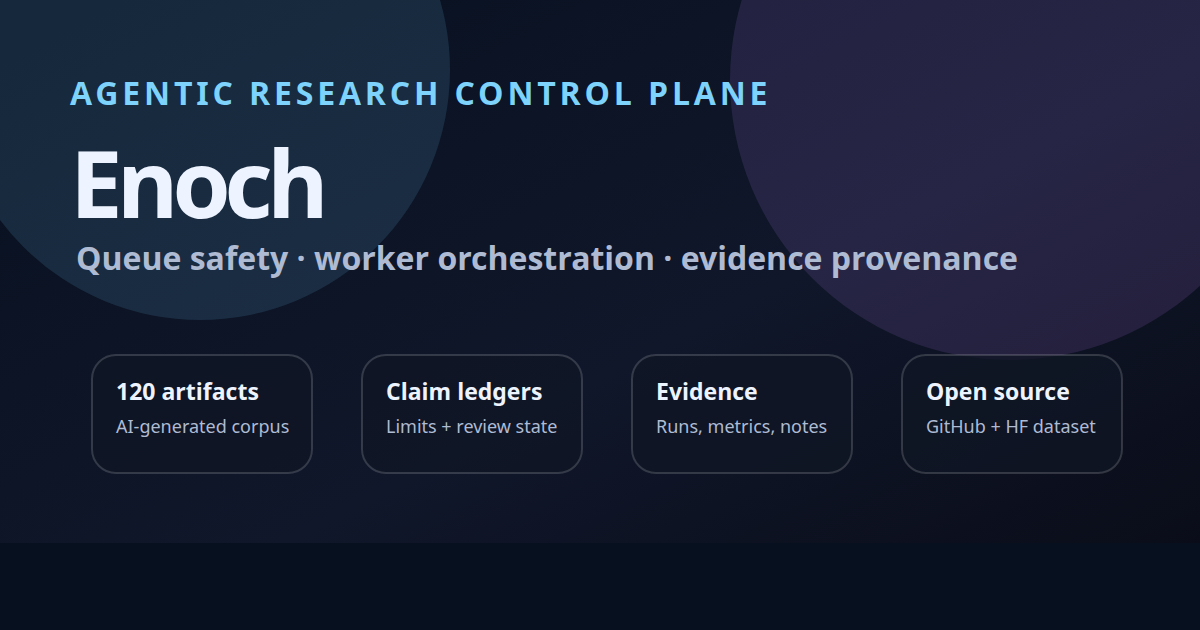
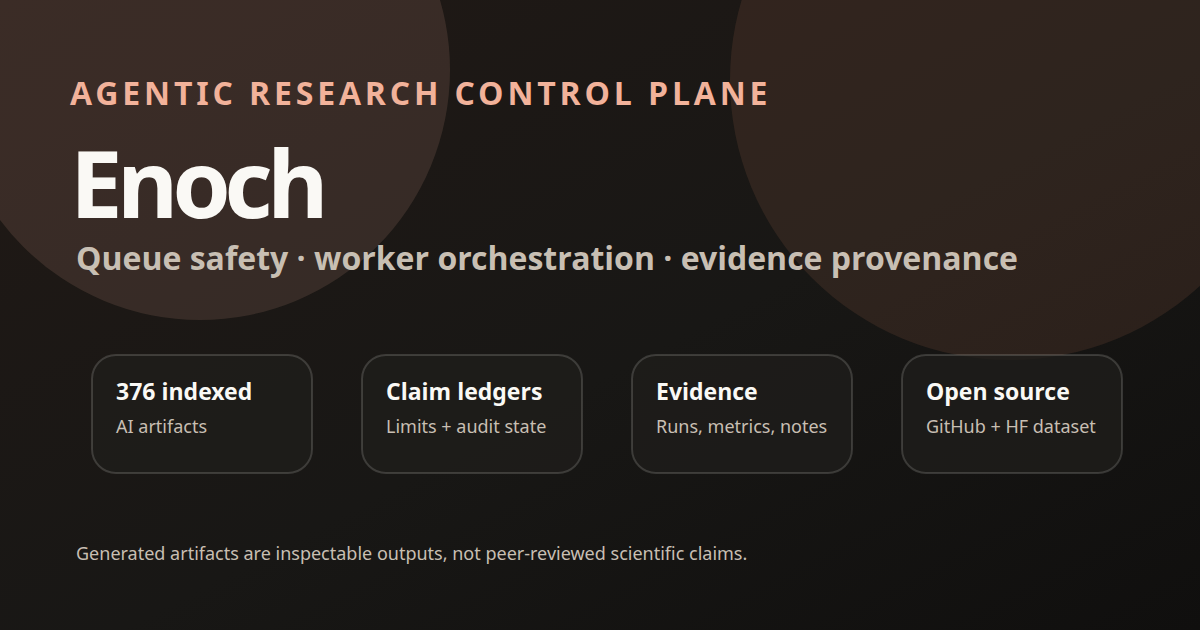
Make the launch visuals match the warm product theme
Constraint: Feedback identified two concrete visual failures: random tall featured-artifact cards and blue/purple graphics that no longer matched the shared light/dark brand.
Rejected: Keeping the masonry card rhythm | the variable row spans made the featured section feel accidental instead of editorial.
Rejected: Hiding the diagrams | the launch page still needs inspectable system visuals; recoloring preserves that evidence path.
Confidence: high
Scope-risk: narrow
Directive: Keep future launch-page visuals checked at desktop, small-laptop, tablet, and phone widths in both color schemes.
Tested: git diff --check; local HTTP visual audit across light/dark at 1366x768, 1280x720, 1024x768, 768x1024, 500x900, 430x932, 390x844, and 360x740; uv run pytest; generated ecosystem manifest; public release validator with --skip-github-metadata.
Not-tested: Physical-device browser testing.

diff --git a/site/styles.css b/site/styles.css
@@ -62,25 +62,29 @@ main { background: linear-gradient(180deg, rgba(204,120,92,.035), transparent 32
 .flow strong { display: block; margin-bottom: .55rem; color: var(--ink); }
 .flow span { color: var(--body); font-size: .94rem; line-height: 1.48; }
 .section-head { display: grid; grid-template-columns: minmax(0, .95fr) minmax(0, 1.05fr); gap: 2rem; align-items: end; }
-.cards { display: grid; grid-template-columns: 1.15fr .85fr; gap: 1rem; margin-top: 1.8rem; }
-.card { min-height: 0; display: flex; flex-direction: column; gap: .75rem; padding: 1.05rem; border: 1px solid var(--hairline); border-radius: .9rem; background: var(--surface); }
-.card:nth-child(3n + 1) { grid-row: span 2; }
-.card .tag { color: var(--primary-active); background: rgba(204,120,92,.1); border: 1px solid rgba(204,120,92,.24); align-self: flex-start; padding: .22rem .55rem; border-radius: .45rem; font-size: .72rem; font-weight: 850; }
-.card h3 { font-size: 1.25rem; line-height: 1.15; margin: 0; }
-.card p { color: var(--body); line-height: 1.55; margin: 0; }
+.cards { display: grid; gap: .75rem; margin-top: 1.8rem; border-top: 1px solid var(--hairline); }
+.card { min-height: 0; display: grid; grid-template-columns: minmax(16rem, .82fr) minmax(0, 1.18fr); gap: clamp(1rem, 3vw, 2rem); padding: 1rem 0; border-bottom: 1px solid var(--hairline); background: transparent; }
+.card-main, .card-proof { min-width: 0; }
+.card-kicker { display: flex; flex-wrap: wrap; align-items: center; gap: .5rem; margin-bottom: .6rem; color: var(--muted); font-size: .72rem; font-weight: 850; letter-spacing: .08em; text-transform: uppercase; }
+.card .tag { color: var(--primary-active); background: rgba(204,120,92,.1); border: 1px solid rgba(204,120,92,.22); padding: .18rem .48rem; border-radius: 999px; letter-spacing: .04em; }
+.card h3 { font-size: clamp(1.1rem, 1.7vw, 1.45rem); line-height: 1.12; margin: 0; }
+.card p { color: var(--body); line-height: 1.52; margin: 0; }
+.card-main p { margin-top: .55rem; }
+.card-proof { display: grid; gap: .45rem; align-content: start; padding-left: clamp(0rem, 2vw, 1rem); border-left: 1px solid var(--hairline); font-size: .94rem; }
 .card .result { color: var(--ink); }
-.card .meta { margin-top: auto; padding-top: .75rem; border-top: 1px solid var(--hairline); font-size: .86rem; display: flex; justify-content: space-between; gap: 1rem; }
+.artifact-link { justify-self: start; margin-top: .25rem; color: var(--primary-active); font-weight: 850; }
 .callout { background: linear-gradient(135deg, rgba(204,120,92,.075), rgba(255,255,255,.32)); border-inline: 1px solid var(--hairline); }
 .visual-section { background: rgba(255,255,255,.2); }
 .diagram-card { margin: 1.5rem 0 0; padding: clamp(.8rem, 2vw, 1.15rem); border: 1px solid var(--hairline); border-radius: 1rem; background: var(--surface); }
 .diagram-card img { width: 100%; display: block; border-radius: .75rem; }
+.hero-visual, .diagram-card img { background: var(--dark); filter: sepia(.16) saturate(.82) hue-rotate(330deg) contrast(1.03); }
 .diagram-card figcaption { color: var(--muted); line-height: 1.55; margin-top: .8rem; font-size: .94rem; }
 pre { overflow-x: auto; padding: 1rem; border-radius: .75rem; border: 1px solid #2a2824; background: var(--dark); color: var(--on-dark); }
 code { color: inherit; }
 ol, ul { line-height: 1.7; }
 footer { max-width: var(--max); margin: 0 auto; padding: 2rem clamp(1rem, 4vw, 2rem); color: var(--muted); }
-@media (max-width: 1050px) { .hero-grid, .split, .section-head { grid-template-columns: 1fr; } .cards { grid-template-columns: repeat(2, 1fr); } .card:nth-child(3n + 1) { grid-row: auto; } .flow { grid-template-columns: repeat(2, 1fr); } .flow div:nth-child(3n) { border-right: 1px solid var(--hairline); } .flow div:nth-child(2n) { border-right: 0; } .flow div:nth-last-child(-n+3) { border-bottom: 1px solid var(--hairline); } .flow div:nth-last-child(-n+2) { border-bottom: 0; } }
-@media (max-width: 680px) { .nav { justify-content: flex-start; flex-wrap: wrap; overflow-x: visible; gap: .18rem .35rem; padding-left: 1rem; padding-right: 1rem; font-size: .8rem; } .nav a { padding: .35rem .48rem; } h1 { font-size: clamp(2.45rem, 12vw, 3.35rem); max-width: 9.5ch; text-wrap: wrap; } .cards, .flow { grid-template-columns: 1fr; } .flow div, .flow div:nth-child(2n), .flow div:nth-child(3n), .flow div:nth-last-child(-n+2) { border-right: 0; border-bottom: 1px solid var(--hairline); } .flow div:last-child { border-bottom: 0; } .stat-card div { grid-template-columns: 1fr; gap: .2rem; } .actions { display: grid; grid-template-columns: 1fr; } .button { text-align: center; } .hero-grid { width: 100vw; max-width: 100vw; padding-left: 20px; padding-right: 20px; } .lede, .actions, .stat-card { width: calc(100vw - 40px); max-width: calc(100vw - 40px); } }
+@media (max-width: 1050px) { .hero-grid, .split, .section-head, .card { grid-template-columns: 1fr; } .card-proof { padding-left: 0; border-left: 0; } .flow { grid-template-columns: repeat(2, 1fr); } .flow div:nth-child(3n) { border-right: 1px solid var(--hairline); } .flow div:nth-child(2n) { border-right: 0; } .flow div:nth-last-child(-n+3) { border-bottom: 1px solid var(--hairline); } .flow div:nth-last-child(-n+2) { border-bottom: 0; } }
+@media (max-width: 680px) { .nav { justify-content: flex-start; flex-wrap: wrap; overflow-x: visible; gap: .18rem .35rem; padding-left: 1rem; padding-right: 1rem; font-size: .8rem; } .nav a { padding: .35rem .48rem; } h1 { font-size: clamp(2.45rem, 12vw, 3.35rem); max-width: 9.5ch; text-wrap: wrap; } .flow { grid-template-columns: 1fr; } .flow div, .flow div:nth-child(2n), .flow div:nth-child(3n), .flow div:nth-last-child(-n+2) { border-right: 0; border-bottom: 1px solid var(--hairline); } .flow div:last-child { border-bottom: 0; } .stat-card div { grid-template-columns: 1fr; gap: .2rem; } .actions { display: grid; grid-template-columns: 1fr; } .button { text-align: center; } .hero-grid { width: 100vw; max-width: 100vw; padding-left: 20px; padding-right: 20px; } .lede, .actions, .stat-card { width: calc(100vw - 40px); max-width: calc(100vw - 40px); } }
 
 .split > *, .section-head > *, .copy, pre { min-width: 0; }
 pre code { white-space: pre; }
@@ -110,7 +114,8 @@ pre code { white-space: pre; }
   .button:hover { background: rgba(45,42,37,.95); }
   .button.primary { color: #17110e; background: #f2b29a; }
   .stat-card { background: linear-gradient(180deg, #252320, #100f0e); }
-  .flow, .card, .diagram-card { background: rgba(37,35,32,.82); }
+  .flow, .diagram-card { background: rgba(37,35,32,.82); }
+  .card .tag { background: rgba(216,132,104,.13); border-color: rgba(242,178,154,.25); }
   .callout { background: linear-gradient(135deg, rgba(216,132,104,.11), rgba(37,35,32,.34)); }
   .visual-section { background: rgba(37,35,32,.28); }
   pre { background: #100f0e; }

diff --git a/site/site.js b/site/site.js
@@ -36,14 +36,18 @@ fetch('highlights.json')
   .then((data) => {
     cards.innerHTML = data.featured.map((item) => `
       <article class="card">
-        <span class="tag">${esc(item.category)}</span>
-        <h3>${esc(item.title)}</h3>
-        <p>${esc(item.why_it_matters)}</p>
-        <p class="result"><strong>Reported result:</strong> ${esc(item.result)}</p>
-        <p><strong>Bounded by:</strong> ${esc(item.bounds)}</p>
-        <p><strong>Gate scope:</strong> ${esc(item.gate_scope || 'packaging/provenance')} lint; strict claim/evidence audit is separate; not peer-reviewed or independently replicated unless the artifact says so.</p>
-        ${item.falsification_prompt ? `<p><strong>Falsification prompt:</strong> ${esc(item.falsification_prompt)}</p>` : ''}
-        <div class="meta"><span>${esc(item.public_id)}</span><a href="${corpusBase + encodeURI(item.paper_path)}">Read artifact</a></div>
+        <div class="card-main">
+          <div class="card-kicker"><span class="tag">${esc(item.category)}</span><span>${esc(item.public_id)}</span></div>
+          <h3>${esc(item.title)}</h3>
+          <p>${esc(item.why_it_matters)}</p>
+        </div>
+        <div class="card-proof">
+          <p class="result"><strong>Reported result:</strong> ${esc(item.result)}</p>
+          <p><strong>Bounded by:</strong> ${esc(item.bounds)}</p>
+          <p><strong>Gate:</strong> ${esc(item.gate_scope || 'packaging/provenance')} lint; strict claim/evidence audit is separate.</p>
+          ${item.falsification_prompt ? `<p><strong>Falsify:</strong> ${esc(item.falsification_prompt)}</p>` : ''}
+          <a class="artifact-link" href="${corpusBase + encodeURI(item.paper_path)}">Read artifact →</a>
+        </div>
       </article>`).join('');
   })
   .catch(() => {

diff --git a/site/index.html b/site/index.html
@@ -39,7 +39,7 @@
         </div>
       </div>
       <aside class="stat-card">
-        <img class="hero-visual" src="assets/enoch-hero-generated.png" alt="Generated Enoch hero graphic showing a control plane coordinating worker nodes and artifact bundles" />
+        <img class="hero-visual" src="assets/social-card.svg" alt="Enoch launch card showing the control plane, artifact counts, claim ledgers, evidence, and open-source release path" />
         <div><span class="stat" id="artifactCount">376</span><span>canonical AI-generated artifacts indexed</span></div>
         <div><span class="stat" id="gatePassCount">376/376</span><span>pass packaging/provenance lint</span></div>
         <div>
